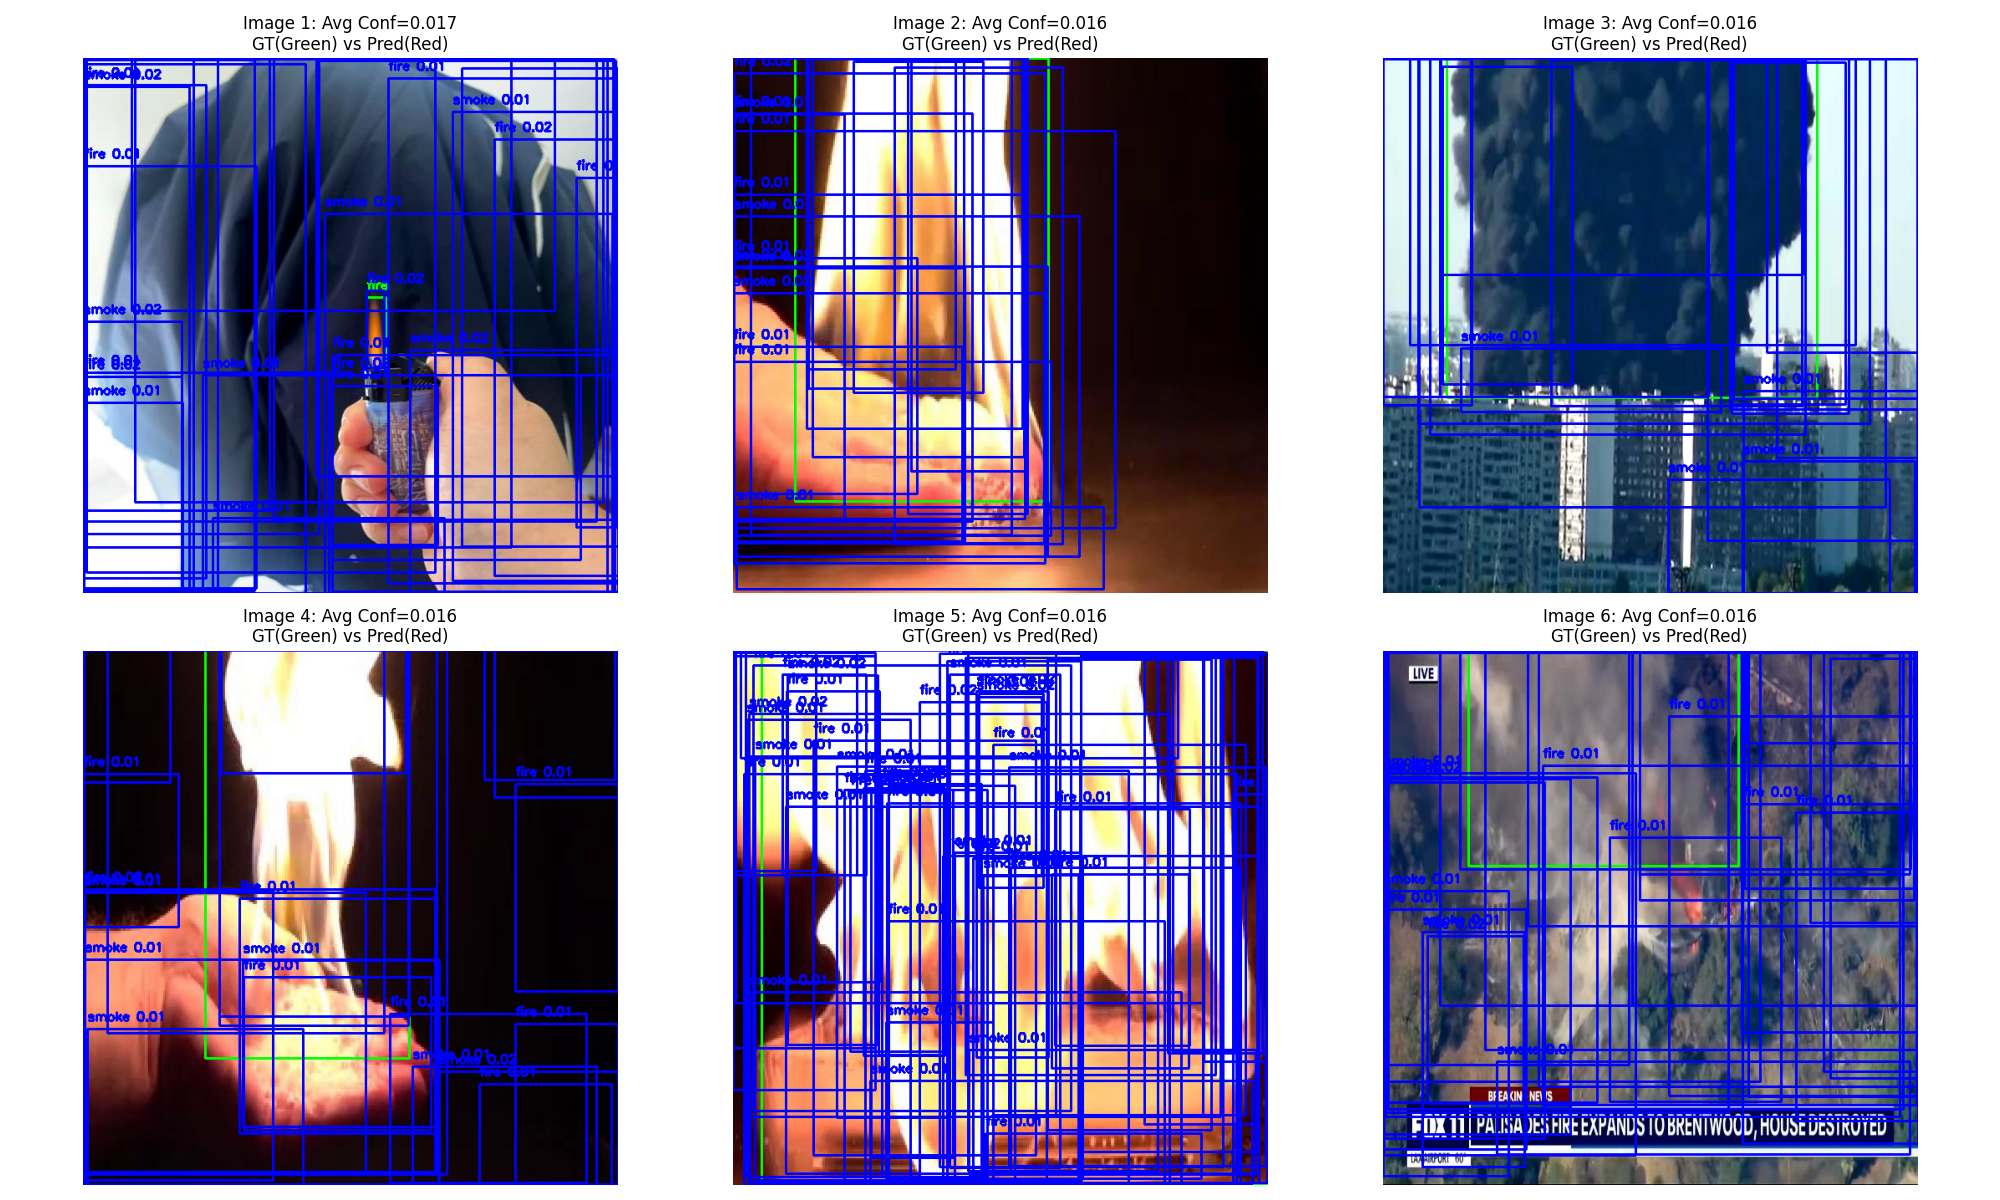
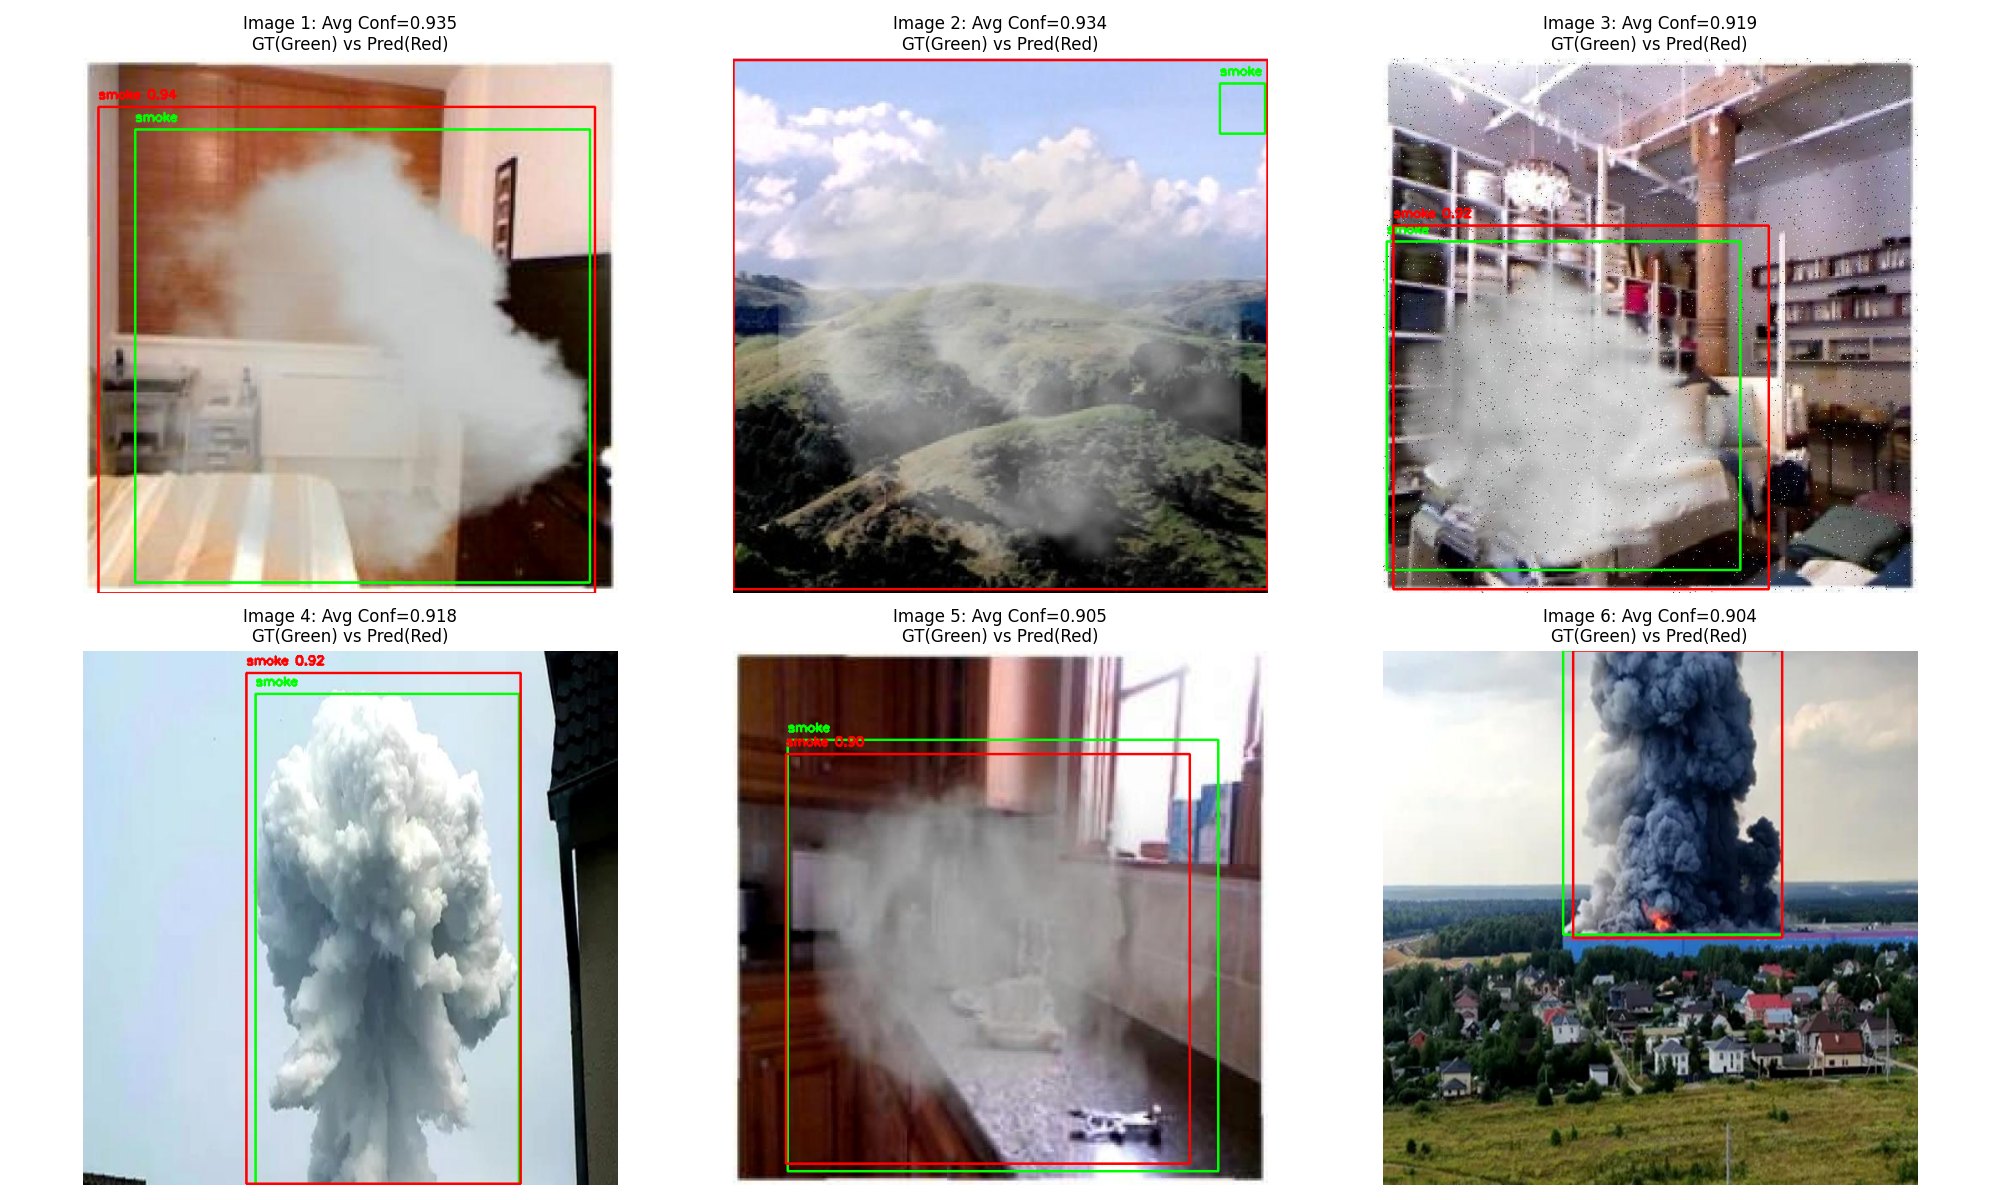
commiting final images

diff --git a/src/forestfires_project/visualize.py b/src/forestfires_project/visualize.py
@@ -10,6 +10,7 @@ def draw_boxes(img, boxes, color=(0, 255, 0), label_names=None, is_pred=False):
     """Helper to draw boxes on image.
     boxes format: [x1, y1, x2, y2, class_id] (for GT)
                   [x1, y1, x2, y2, conf, class_id] (for Pred)
+    Note: color is in RGB format for matplotlib compatibility
     """
     img_copy = img.copy()
     for box in boxes:
@@ -20,6 +21,13 @@ def draw_boxes(img, boxes, color=(0, 255, 0), label_names=None, is_pred=False):
             x1, y1, x2, y2, cls = box
             label = f"{label_names[int(cls)]}"
 
+        # Draw rectangle and text in RGB color format
+        import matplotlib.patches as mpatches
+        from matplotlib.backends.backend_agg import FigureCanvasAgg
+        import numpy as np
+        
+        # For RGB images (matplotlib), we can draw directly with RGB colors
+        # Using a simple approach: overlay colored rectangles
         cv2.rectangle(img_copy, (int(x1), int(y1)), (int(x2), int(y2)), color, 2)
         cv2.putText(img_copy, label, (int(x1), int(y1) - 10), cv2.FONT_HERSHEY_SIMPLEX, 0.5, color, 2)
     return img_copy
@@ -50,10 +58,15 @@ def run_visualization(config_path="configs/config.yaml", model_path=None):
     # Convert class dict to list in correct order
     classes_dict = config["hyperparameters"]["classes"]
     class_names = [classes_dict[i] for i in sorted(classes_dict.keys())]
+    print(f"Classes: {class_names}")
 
     # Collect predictions for all images to find most confident ones
     print("Running inference on test set to find most confident predictions...")
     all_results = []
+    
+    # Debug counters
+    total_gt_boxes = 0
+    total_images_with_gt = 0
 
     for batch_idx, (images, gt_boxes_batch, img_paths) in enumerate(loader):
         # Convert tensor images to numpy for YOLO inference
@@ -77,11 +90,20 @@ def run_visualization(config_path="configs/config.yaml", model_path=None):
             # Calculate average confidence for this image
             avg_conf = pred_boxes[:, 4].mean() if len(pred_boxes) > 0 else 0.0
             max_conf = pred_boxes[:, 4].max() if len(pred_boxes) > 0 else 0.0
+            
+            # Validate ground truth boxes
+            gt_boxes = gt_boxes_batch[i]
+            if len(gt_boxes) > 0:
+                total_images_with_gt += 1
+                total_gt_boxes += len(gt_boxes)
+                # Verify GT box format: [x1, y1, x2, y2, cls]
+                if batch_idx == 0 and i == 0 and len(gt_boxes) > 0:
+                    print(f"[DEBUG] Sample GT box: {gt_boxes[0]} (format: [x1, y1, x2, y2, class_id])")
 
             all_results.append(
                 {
                     "image": images[i],
-                    "gt_boxes": gt_boxes_batch[i],
+                    "gt_boxes": gt_boxes,
                     "pred_boxes": pred_boxes,
                     "avg_conf": avg_conf,
                     "max_conf": max_conf,
@@ -94,6 +116,7 @@ def run_visualization(config_path="configs/config.yaml", model_path=None):
     top_24 = all_results[:24]
 
     conf_scores = [f"{r['avg_conf']:.3f}" for r in top_24]
+    print(f"\nGround Truth Stats: {total_images_with_gt} images with GT, {total_gt_boxes} total GT boxes")
     print(f"Selected top 24 images with confidence scores: {conf_scores}")
 
     # Create 4 separate grid files (6 images each)
@@ -116,9 +139,9 @@ def run_visualization(config_path="configs/config.yaml", model_path=None):
                 result_data["image"], result_data["gt_boxes"], color=(0, 255, 0), label_names=class_names, is_pred=False
             )
 
-            # Draw predictions in Red on top of the GT image
+            # Draw predictions in Red (RGB format) on top of the GT image
             img_final = draw_boxes(
-                img_gt, result_data["pred_boxes"], color=(0, 0, 255), label_names=class_names, is_pred=True
+                img_gt, result_data["pred_boxes"], color=(255, 0, 0), label_names=class_names, is_pred=True
             )
 
             axes[i].imshow(img_final)
